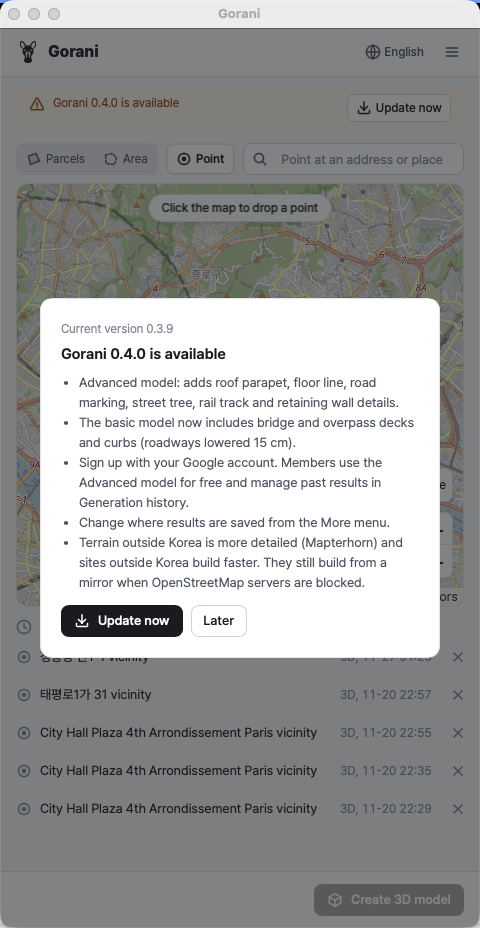
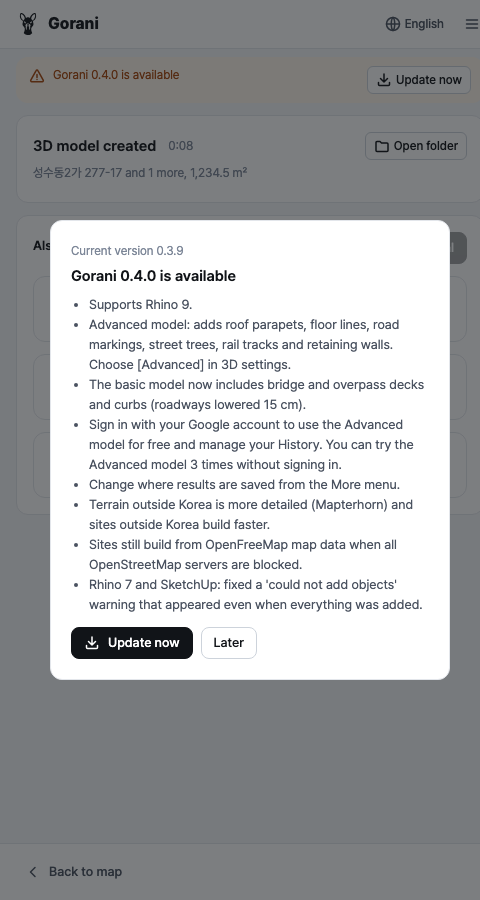
0.4.0 업데이트 안내 최종 문구(사용자 11-27) — 프로그램별 hosts, 옛 패널 items는 Rhino에 보이는 줄만
- docs/notices.json: 새 기능 5(Rhino 9는 rhino만)·개선 2·안정성 3(Rhino 7·SketchUp 1, Archicad 2), 다섯 언어
- dev_deploy.get_update_items: groups·hosts를 모르는 0.3.9 이하 패널이 읽는 items를 Rhino에 보이는 줄만(묶음 순서) — Archicad 줄이 Rhino 창에 뜨지 않게
- 그림: 0.4.0 Rhino(ko·en), 0.3.9(ko·en, v0.3.9 패널 그대로), SketchUp·Archicad·Blender 비교

diff --git a/scripts/dev_deploy.py b/scripts/dev_deploy.py
@@ -1657,10 +1657,12 @@ def upload(site_only=False):
     return constants.DATA_MANIFEST_URL
 
 
-def get_update_items(update):
-    # type: (dict) -> dict
-    """업데이트 안내의 한 줄 목록(items, 언어별) — `groups`(새 기능·개선·안정성)가 있으면 그것을 이어 붙인 값이 원본이다.
-    플러그인 패널은 items만 읽고, 웹페이지 버전 기록은 groups를 읽는다. 같은 문장이 두 곳에 뜨게 한 곳에서만 쓴다."""
+def get_update_items(update, host="rhino"):
+    # type: (dict, str) -> dict
+    """업데이트 안내의 한 줄 목록(items, 언어별) — `groups`(새 기능·개선·안정성)가 있으면 그것에서 만든다.
+    items는 groups·hosts를 모르는 옛 패널(0.3.9 이하 Rhino·SketchUp, AutoCAD 0.3.6)이 그대로 다 보이는 목록이라,
+    옛 사용자 대부분인 Rhino에 보이는 줄만(hosts가 없거나 host가 든 줄) 묶음 순서대로 잇는다(2026-11-27 사용자 — Archicad 줄이 Rhino 창에 뜨지 않게).
+    0.4.0부터 패널은 groups를 읽고, 웹페이지 버전 기록도 groups를 읽는다."""
     groups = (update or {}).get("groups")
     if not groups:
         return (update or {}).get("items")
@@ -1669,7 +1671,12 @@ def get_update_items(update):
         for lang in group.get("items") or {}:
             if lang not in langs:
                 langs.append(lang)
-    return {lang: [text for group in groups for text in (group.get("items") or {}).get(lang, [])] for lang in langs}
+
+    def is_shown(group, index):
+        hosts = group.get("hosts") or []
+        return index >= len(hosts) or not hosts[index] or host in hosts[index]
+    return {lang: [text for group in groups for index, text in enumerate((group.get("items") or {}).get(lang, [])) if is_shown(group, index)]
+            for lang in langs}
 
 
 def _read_notices():

diff --git a/tests/test_dev_admin.py b/tests/test_dev_admin.py
@@ -37,6 +37,11 @@ class NoticeErrorsTest(unittest.TestCase):
         self.assertEqual(len(errors([None, ["photoshop"]])), 1)   # 모르는 프로그램
         self.assertEqual(len(errors([None, []])), 1)          # 빈 목록 = 아무에게도 안 보임
 
+    def test_items_are_rhino_rows(self):   # 옛 패널이 읽는 items = Rhino에 보이는 줄만(Archicad 전용 줄은 빠진다)
+        groups = [{"type": "new", "items": {"ko": ["공통", "아키캐드"]}, "hosts": [None, ["archicad"]]},
+                  {"type": "stable", "items": {"ko": ["라이노", "스케치업"]}, "hosts": [["rhino", "sketchup"], ["sketchup"]]}]
+        self.assertEqual(dev_admin.dev_deploy.get_update_items({"groups": groups}), {"ko": ["공통", "라이노"]})
+
     def test_repo_notices_consistent(self):
         import json
         data = json.loads((Path(__file__).resolve().parents[1] / "docs" / "notices.json").read_text(encoding="utf-8"))
